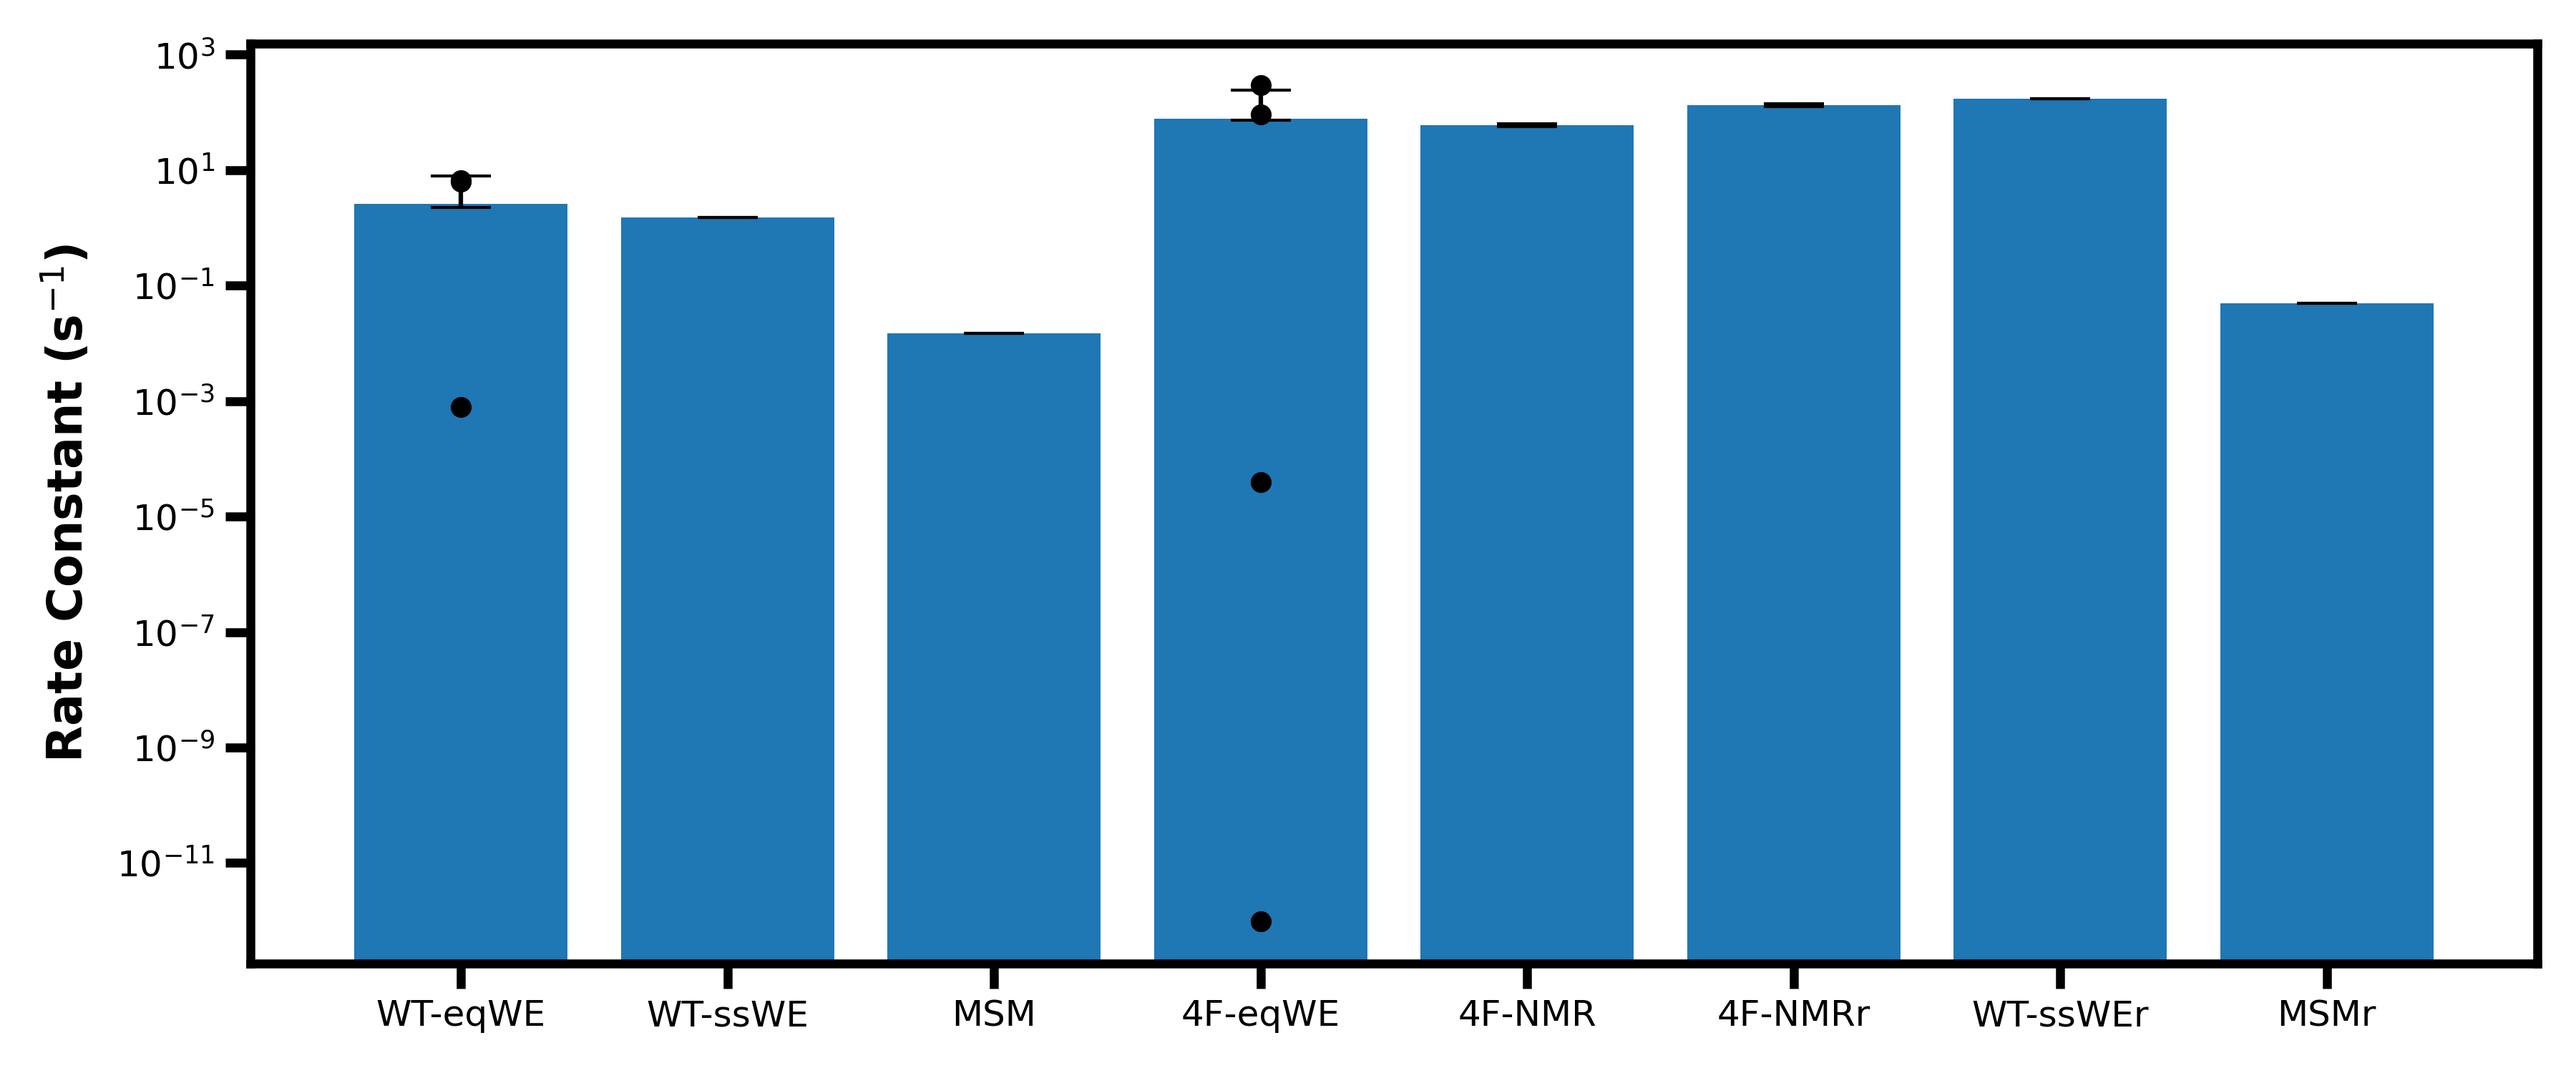
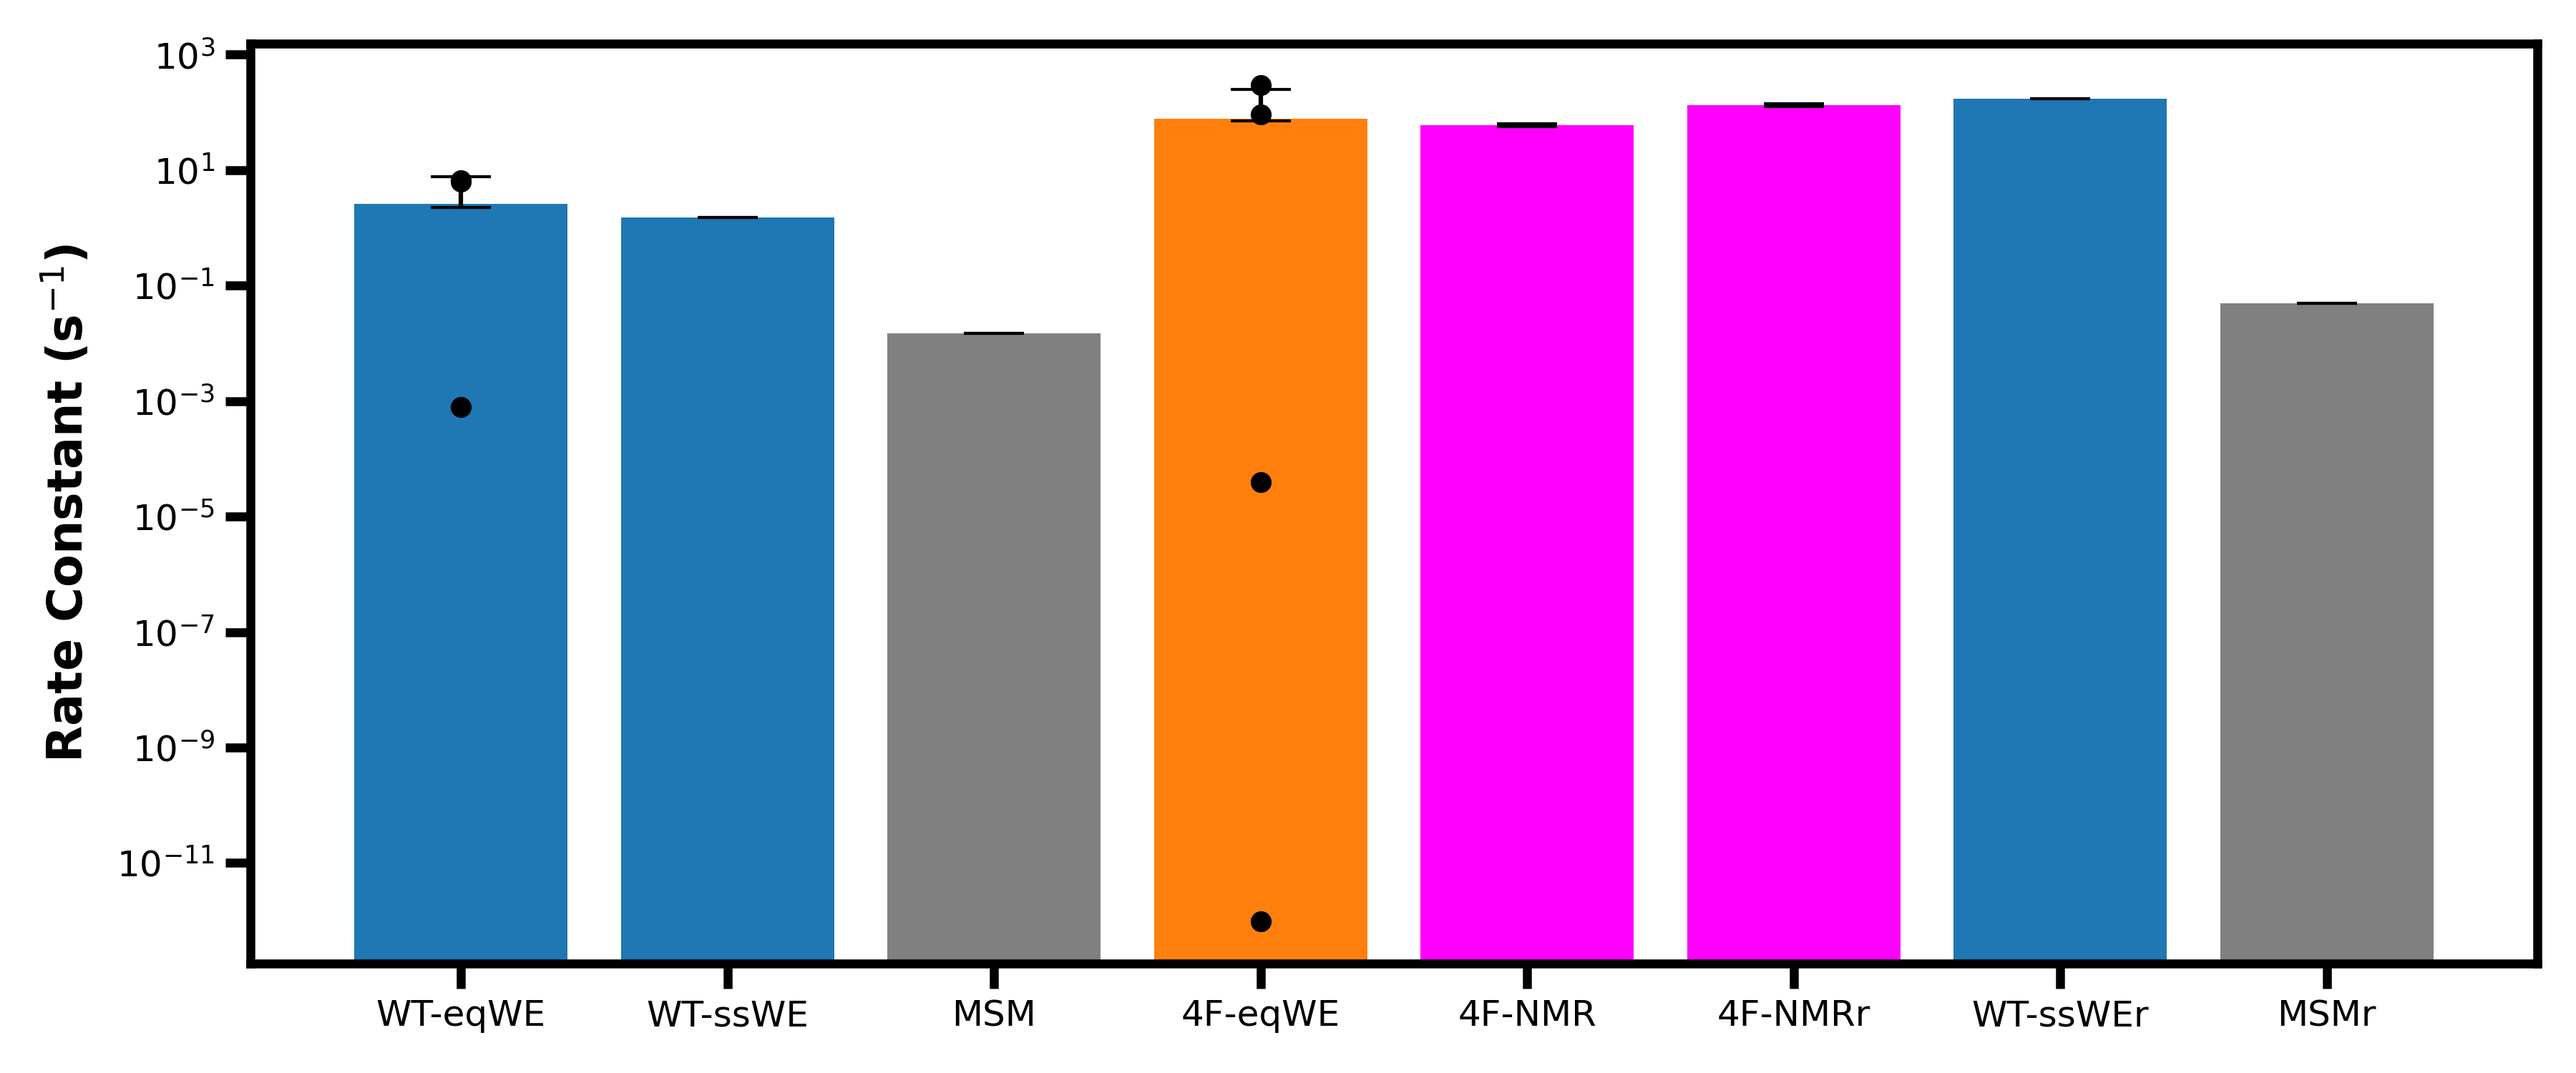
added color to all kinetics attempts plot

Changed region(s): [[0.3422, 0.092, 0.7467, 0.92], [0.84, 0.276, 0.9644, 0.92]]

diff --git a/plot_direct_h5-thesismeet.py b/plot_direct_h5-thesismeet.py
@@ -825,7 +825,7 @@ ax.set_yscale("log")
 fig, ax = plt.subplots(figsize=(12,5))
 ax.bar(["WT-eqWE", "WT-ssWE", "MSM", "4F-eqWE", "4F-NMR", "4F-NMRr", "WT-ssWEr", "MSMr"], 
        [f1,         1.5,        0.015,    f2,      60,       134,       173,        0.05], 
-       #color=["tab:blue", "k", "tab:orange", "grey", "k", "tab:green", "grey"],
+       color=["tab:blue", "tab:blue", "grey", "tab:orange", "magenta", "magenta", "tab:blue", "grey"],
        yerr=errors, capsize=10)
 ax.set_ylabel("Rate Constant (s$^{-1}$)")
 
